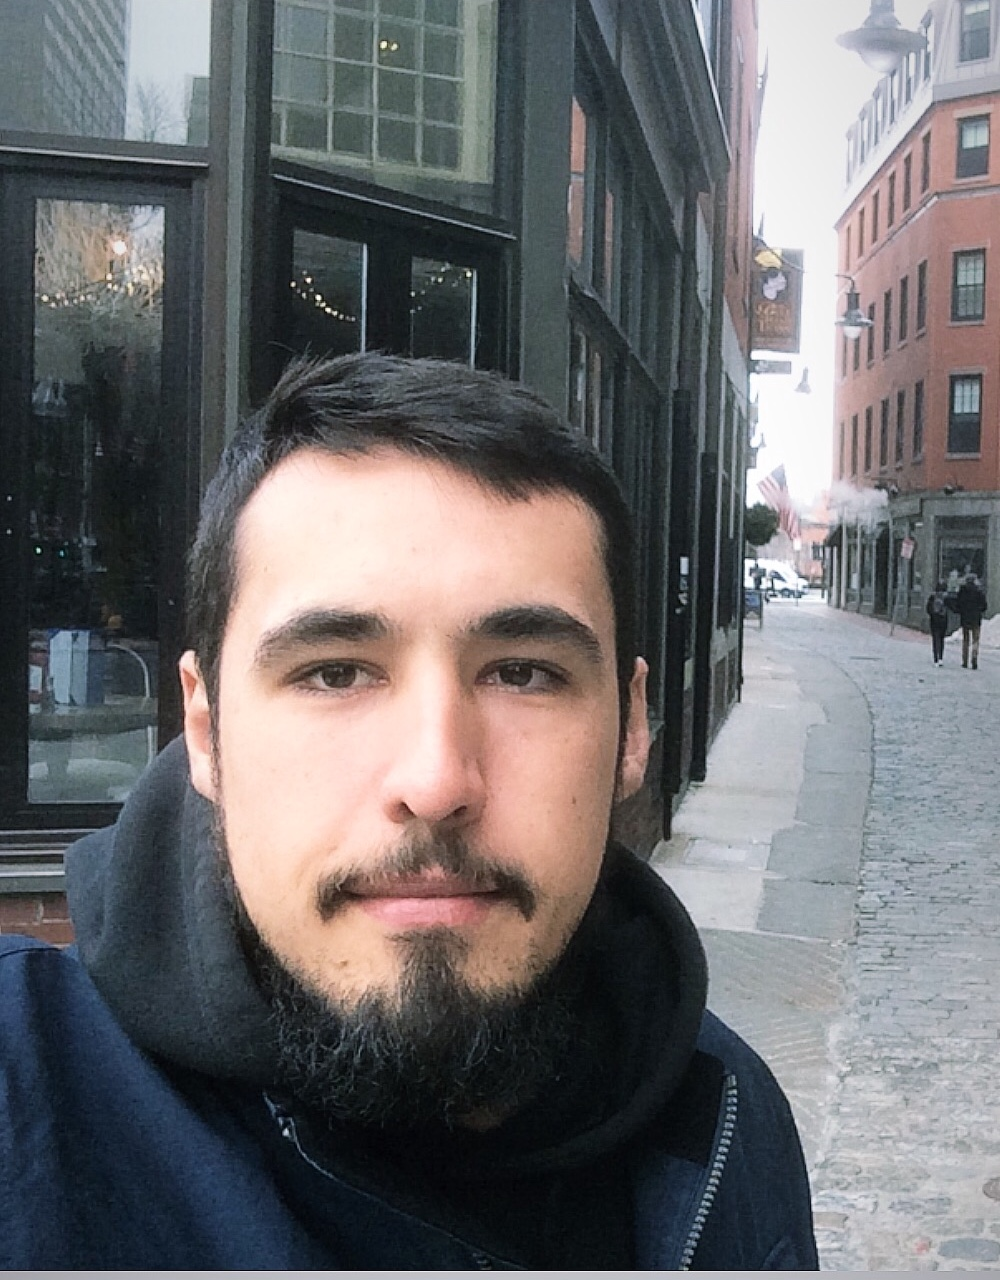
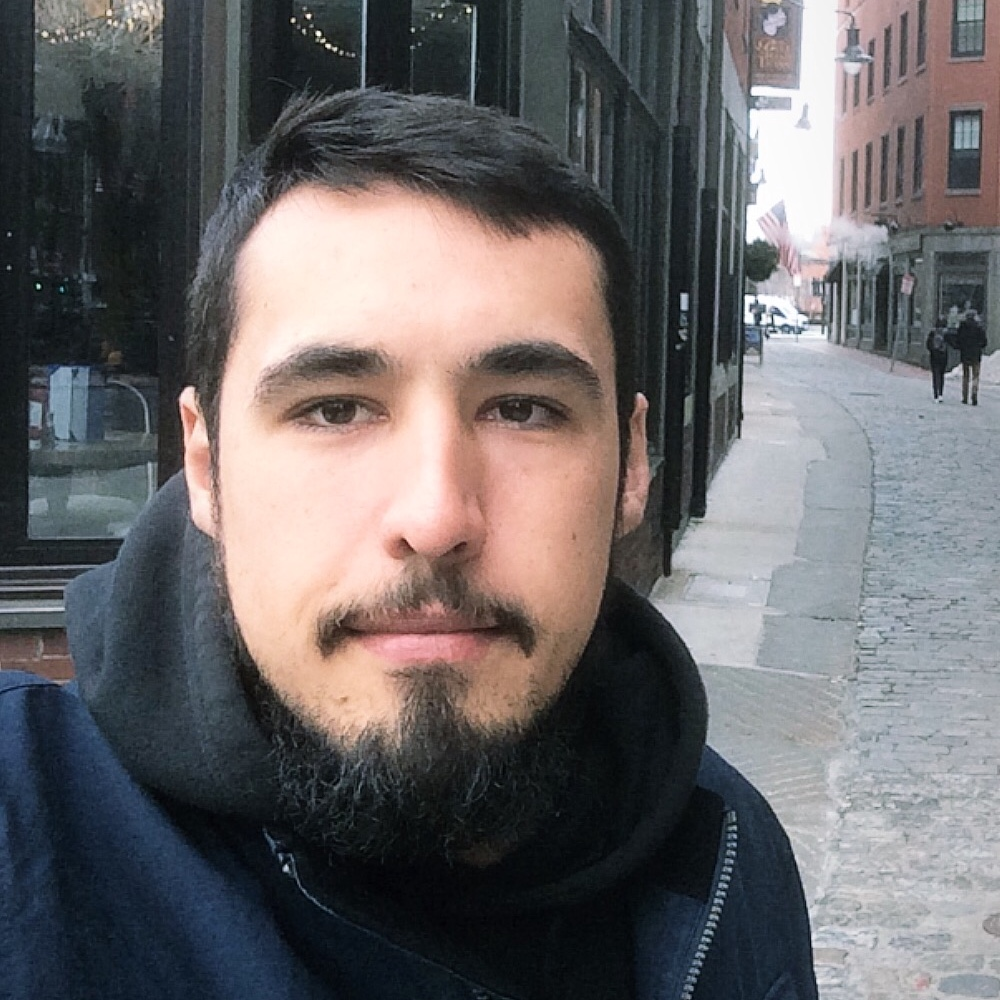
Update home page and main structure.

diff --git a/_includes/head.html b/_includes/head.html
@@ -13,19 +13,18 @@
     <link rel="stylesheet" href="/assets/css/main.css" />
 
     <!-- Favicon -->
-    <link rel="icon" href="/assets/img/favicon.ico" type="image/gif" sizes="16x16">
-    <script
+    <!-- <script
         src="https://code.jquery.com/jquery-3.3.1.slim.min.js"
         integrity="sha384-q8i/X+965DzO0rT7abK41JStQIAqVgRVzpbzo5smXKp4YfRvH+8abtTE1Pi6jizo"
-        crossorigin="anonymous"></script>
-    <script
+        crossorigin="anonymous"></script> -->
+    <!-- <script
         src="https://cdnjs.cloudflare.com/ajax/libs/popper.js/1.14.3/umd/popper.min.js"
         integrity="sha384-ZMP7rVo3mIykV+2+9J3UJ46jBk0WLaUAdn689aCwoqbBJiSnjAK/l8WvCWPIPm49"
-        crossorigin="anonymous"></script>
+        crossorigin="anonymous"></script> -->
       
-    <link
+    <!-- <link
         rel="stylesheet"
-        href="https://fonts.googleapis.com/css?family=Quicksand&display=swap">
+        href="https://fonts.googleapis.com/css?family=Quicksand&display=swap"> -->
     <link
         rel="stylesheet"
         href="https://stackpath.bootstrapcdn.com/bootstrap/4.1.1/css/bootstrap.min.css"
@@ -36,22 +35,5 @@
         href="https://use.fontawesome.com/releases/v5.1.0/css/all.css"
         integrity="sha384-lKuwvrZot6UHsBSfcMvOkWwlCMgc0TaWr+30HWe3a4ltaBwTZhyTEggF5tJv8tbt"
         crossorigin="anonymous">
-    <script>
-        (function(d, h, m){
-            var js, fjs = d.getElementsByTagName(h)[0];
-            if (d.getElementById(m)){return;}
-            js = d.createElement(h); js.id = m;
-            js.onload = function(){
-                window.makerWidgetComInit({
-                position: "right",          
-                widget: "ofeeof264otl2l5g-zspk40eq2gaomj2n-higi2qphmveubksi"                
-            })};
-            js.src = "https://makerwidget.com/js/embed.js";
-            fjs.parentNode.insertBefore(js, fjs)
-        }(document, "script", "dhm"))
-    </script>
-    <!-- HTML5 shim, for IE6-8 support of HTML5 elements -->
-    <!--[if lt IE 9]>
-        <script src="http://html5shim.googlecode.com/svn/trunk/html5.js"></script>
-    <![endif]-->
+
 </head>

diff --git a/_includes/header.html b/_includes/header.html
@@ -4,22 +4,24 @@
         <div class="row">
             <div class="col-md-2 center">
                 <a href="/">
-                    <img src="/assets/img/{{ site.author_img }}" class="profile-img">
+                    <img
+                        src="/assets/img/{{ site.author_img }}"
+                        class="profile-img">
                 </a>
             </div>
+
             <div class="col-md-4">
                 <h1 class="profile-name"> {{ site.title }}</h1>
                 <p class="profile-bio"> {{ site.subtitle }}</p>
                 <p class="profile-links">
-
                     {% for social in site.data.social %}
                     <a class="social-link" href="{{ social.href }}" target="_blank">
                         <i class="{{ social.class }}"></i>
                     </a>
                     {% endfor %}
-
                 </p>
             </div>
+
             <div class="col-md-6 center">
                 <ul class="nav justify-content-end" id="navigation">
                     

diff --git a/index.html b/index.html
@@ -1,0 +1,20 @@
+---
+layout: default
+title: Home
+---
+
+<div class="row">
+
+    <div class="col-lg-12">
+
+        <div class="card center">
+            <h1>
+                <i class="fas fa-exclamation-triangle"></i>
+                Under Construction
+                <i class="fas fa-exclamation-triangle"></i>
+            </h1>
+        </div>
+        
+    </div>
+
+</div>

diff --git a/_sass/devlog.scss b/_sass/devlog.scss
@@ -6,7 +6,6 @@ body {
 header {
     background-color: #F5F5F5;
     box-shadow: 10px 0px 8px;
-    height: 200px;
     width: 100%;
     padding: 11px;
 }
@@ -19,7 +18,7 @@ header {
 .profile-img {
     width: 150px;
     height: 150px;
-    margin-left: 20px;
+    border-radius: 40%;
 }
 
 .profile-name {

diff --git a/_layouts/home.html b/_layouts/home.html
@@ -97,7 +97,6 @@ layout: default
         <div class="card">
             <h1> Coding Activity </h1>
 
-            {%- include activity.html -%}
 
         </div>
 

diff --git a/_layouts/default.html b/_layouts/default.html
@@ -14,7 +14,7 @@
 
         </div>
 
-        {%- include footer.html -%}
+        <!-- {%- include footer.html -%} -->
 
     </div>
 </body>
